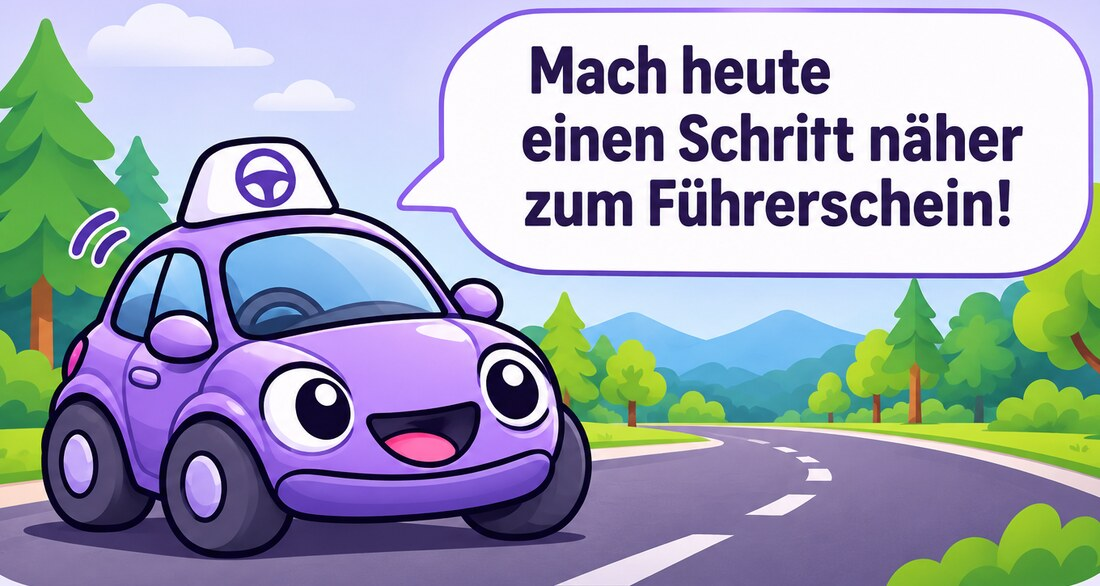
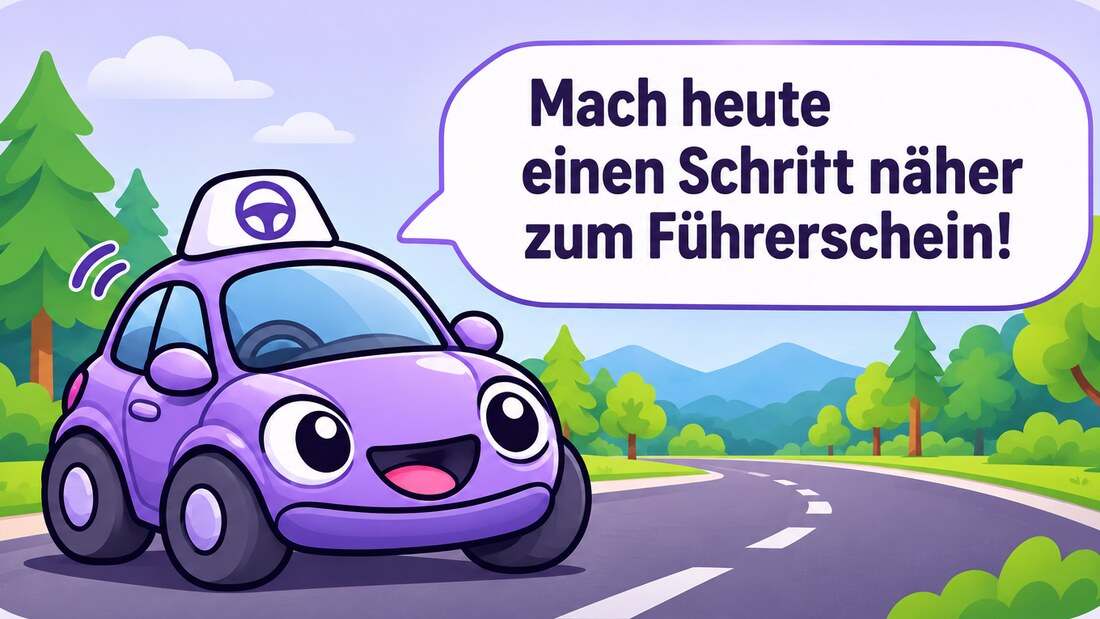
Home: Bild mit mehr Himmel über der Sprechblase, nahtloser weicher Übergang
Neuer Zuschnitt (Sprechblase samt Rand frei), Himmelfarbe exakt aus dem Bild,
Verlauf im Kopf mit weichen Zwischenstufen – keine sichtbare Kante mehr.

Claude-Session: https://claude.ai/code/session_01SLhREvuLjiee512FKLama7

diff --git a/theorie-app/src/app/(tabs)/heute.tsx b/theorie-app/src/app/(tabs)/heute.tsx
@@ -52,7 +52,15 @@ export default function Home() {
 }
 
 /** Himmelfarbe oben im Bild – oben auf der Startseite geht sie nahtlos weiter. */
-const HIMMEL = "#D3D2FE";
+const HIMMEL = "#D3CDFD";
+
+/** Zwei „#RRGGBB“-Farben mischen (0 = a, 1 = b). */
+function mischen(a: string, b: string, t: number): string {
+  const x = parseInt(a.slice(1), 16);
+  const y = parseInt(b.slice(1), 16);
+  const k = (s: number) => Math.round(((x >> s) & 255) * (1 - t) + ((y >> s) & 255) * t);
+  return `rgb(${k(16)},${k(8)},${k(0)})`;
+}
 
 /** Begrüßung je Tageszeit (mit Komma, darunter der Name). */
 const GRUSS_LILA: Record<ReturnType<typeof tageszeit>, string> = { morgen: "Guten Morgen", tag: "Hallo", abend: "Guten Abend", nacht: "Hey" };
@@ -76,7 +84,7 @@ function HomeLila() {
   const tage = termin ? tageBis(termin) : null;
   const kommend = tage !== null && tage >= 0 ? tage : null;
   const glockePunkt = !stand.erinnerung.an;
-  const heldH = Math.round(width * (586 / 1100));
+  const heldH = Math.round(width * (619 / 1100));
 
   const countdown =
     kommend === null
@@ -94,8 +102,8 @@ function HomeLila() {
       <View pointerEvents="none" style={{ position: "absolute", top: 0, left: 0, right: 0, height: "50%", backgroundColor: l.grund }} />
       <ScrollView {...tourBlatt} contentContainerStyle={{ paddingBottom: inhaltUnten + 8 }} showsVerticalScrollIndicator={false}>
         {/* Begrüßung auf dem Himmel – das Bild darunter setzt ihn nahtlos fort */}
-        <View style={{ paddingTop: insets.top + 10, paddingHorizontal: LILA_RAND, paddingBottom: 22, flexDirection: "row", alignItems: "flex-start" }}>
-          <LinearGradient pointerEvents="none" colors={[l.grund, HIMMEL]} locations={[0.2, 0.85]} style={{ position: "absolute", top: 0, left: 0, right: 0, bottom: 0 }} />
+        <View style={{ paddingTop: insets.top + 10, paddingHorizontal: LILA_RAND, paddingBottom: 2, flexDirection: "row", alignItems: "flex-start" }}>
+          <LinearGradient pointerEvents="none" colors={[l.grund, mischen(l.grund, HIMMEL, 0.25), mischen(l.grund, HIMMEL, 0.6), mischen(l.grund, HIMMEL, 0.88), HIMMEL]} locations={[0.1, 0.4, 0.68, 0.9, 1]} style={{ position: "absolute", top: 0, left: 0, right: 0, bottom: 0 }} />
           <Text style={{ flex: 1, ...lilaSchrift.titel, fontSize: 40, lineHeight: 43, letterSpacing: -0.6, color: l.tinte }} numberOfLines={2}>
             {GRUSS_LILA[zeit]},{"\n"}
             <Text style={{ color: l.lilaKante }}>{vorname}</Text>!
@@ -128,7 +136,7 @@ function HomeLila() {
         <View>
           <Image source={FOTOS.heldAuto} style={{ width: "100%", height: heldH, backgroundColor: HIMMEL }} resizeMode="cover" accessibilityLabel="Die Figur sagt: Mach heute einen Schritt näher zum Führerschein!" />
           {/* Ganz oben weich aus dem Himmel heraus – keine Kante */}
-          <LinearGradient pointerEvents="none" colors={[HIMMEL, mitDeckkraft(HIMMEL, 0)]} style={{ position: "absolute", top: 0, left: 0, right: 0, height: 8 }} />
+          <LinearGradient pointerEvents="none" colors={[HIMMEL, mitDeckkraft(HIMMEL, 0)]} style={{ position: "absolute", top: 0, left: 0, right: 0, height: 12 }} />
         </View>
 
         {/* Inhalt als Blatt mit runden Ecken, das über dem Bild liegt */}
